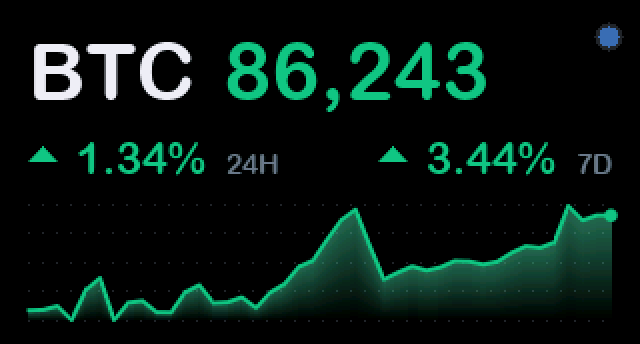
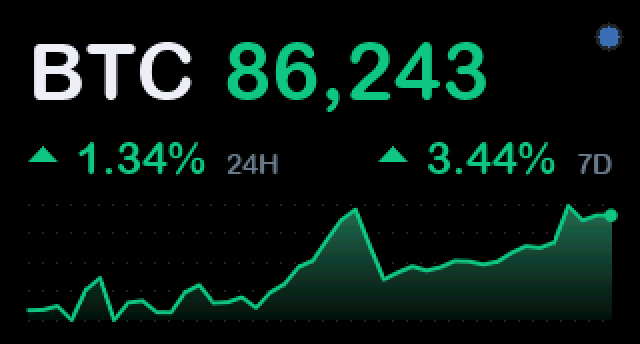
Chart fill: one gradient for the whole chart, cut off by the line
Full strength at the chart's top edge fading to 15% at the bottom, so a
peak is bright and a trough dim and the fill reads as one shape. Over the
black background each row's colour is fixed, so the fill is a copy rather
than a blend and covers the grid dots. README chart images and animation
regenerated.

diff --git a/main/ui.c b/main/ui.c
@@ -38,9 +38,13 @@
 #define CHART_MIN_SWING 0.04f
 /* Opacity of the high-low band behind the line, 0-255. */
 #define BAND_ALPHA 80
-/* Peak opacity of the gradient fill under the sparkline, 0-255. */
+/* The fill under the line is one gradient for the whole chart, full
+ * strength at the chart's top edge and FILL_FLOOR_PCT of it at the bottom,
+ * shown from the line down. So a peak is bright and a trough is dim, and
+ * the fill reads as one shape. Opacities 0-255. */
 #define FILL_ALPHA_TOP 135
 #define FILL_ALPHA_TOP_DOWN 160 /* red needs a little more presence */
+#define FILL_FLOOR_PCT 15
 /* Up-fill: line colour lifted toward white. That trick fails for red --
  * white adds green, and red+green at low brightness reads as brown -- so the
  * down-fill is an explicit rose (red+blue only, no green contamination). */
@@ -428,6 +432,15 @@ static void draw_sparkline(uint16_t *fb, int x, int y, int w, int h, const float
 
     rgb_t ink = unpack(fill_color);
     int stride = board_display_width();
+    /* The background under the fill is black, so each row's colour is
+     * fixed: the fill is a copy, not a blend, and covers the grid dots. */
+    uint16_t row_col[SPARK_H];
+    int a_top = fill_alpha * s_alpha / 255;
+    for (int r = 0; r < h; r++) {
+        row_col[r] = 0;
+        blend_into(&row_col[r], ink,
+                   a_top * (FILL_FLOOR_PCT * h + (100 - FILL_FLOOR_PCT) * (h - r)) / (100 * h));
+    }
     for (int col = 0; col < w; col++) {
         if (x + col < cx0 || x + col >= cx1) {
             continue;
@@ -447,15 +460,9 @@ static void draw_sparkline(uint16_t *fb, int x, int y, int w, int h, const float
             }
             continue;
         }
-        /* Gradient fill, from the row the line's centre is in: the line's
-         * colour dissolving toward the bottom edge, scaled by page alpha so
-         * fades take the fill down with them. The opacity falls by the same
-         * amount each row: 8.8 fixed point. */
-        int cy = y + height_at(&line, col) / SQ;
-        int depth = (y + h) - cy + 1;
-        int fall = ((fill_alpha * s_alpha / 255) << 8) / depth;
+        int cy = y + height_at(&line, col) / SQ; /* the row the line's centre is in */
         for (int py = cy < cy0 ? cy0 : cy; py < y_end; py++) {
-            blend_into(px + py * stride, ink, (fall * ((y + h) - py)) >> 8);
+            px[py * stride] = row_col[py - y];
         }
     }
 
